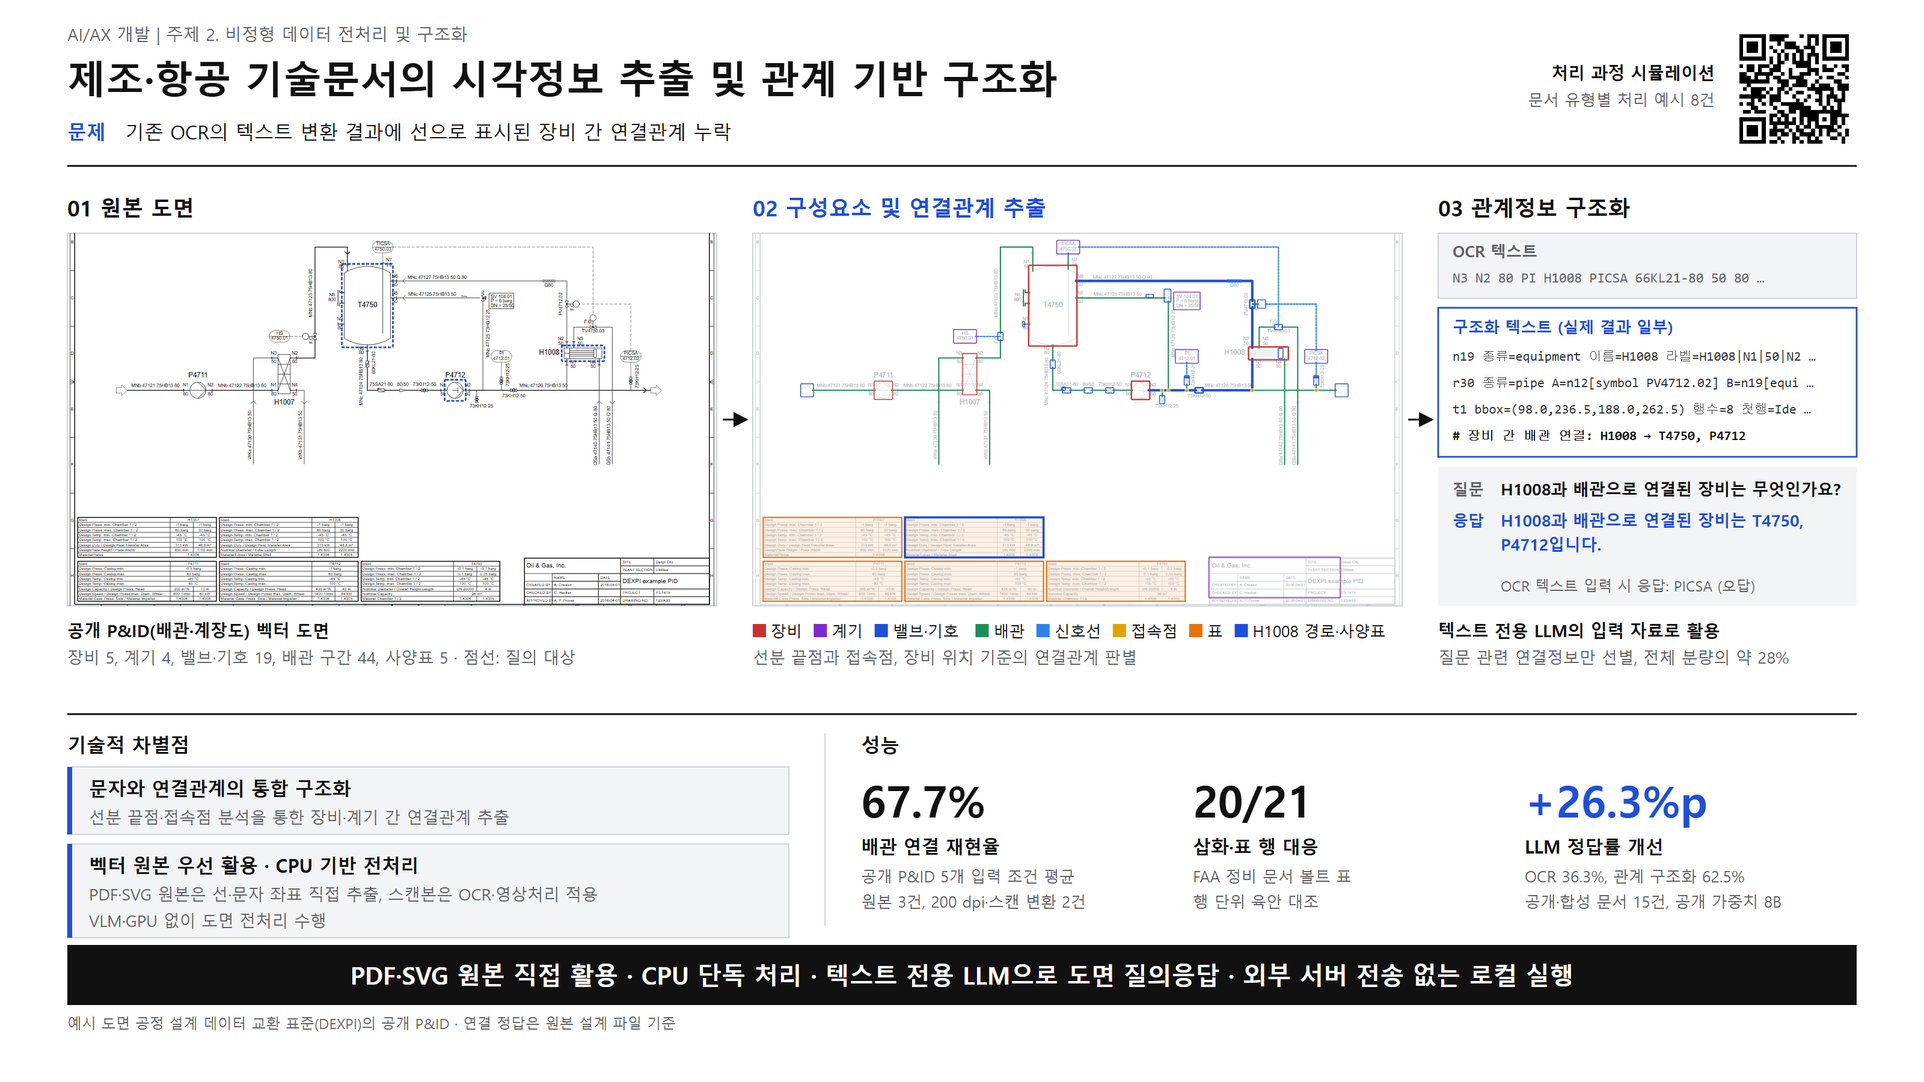
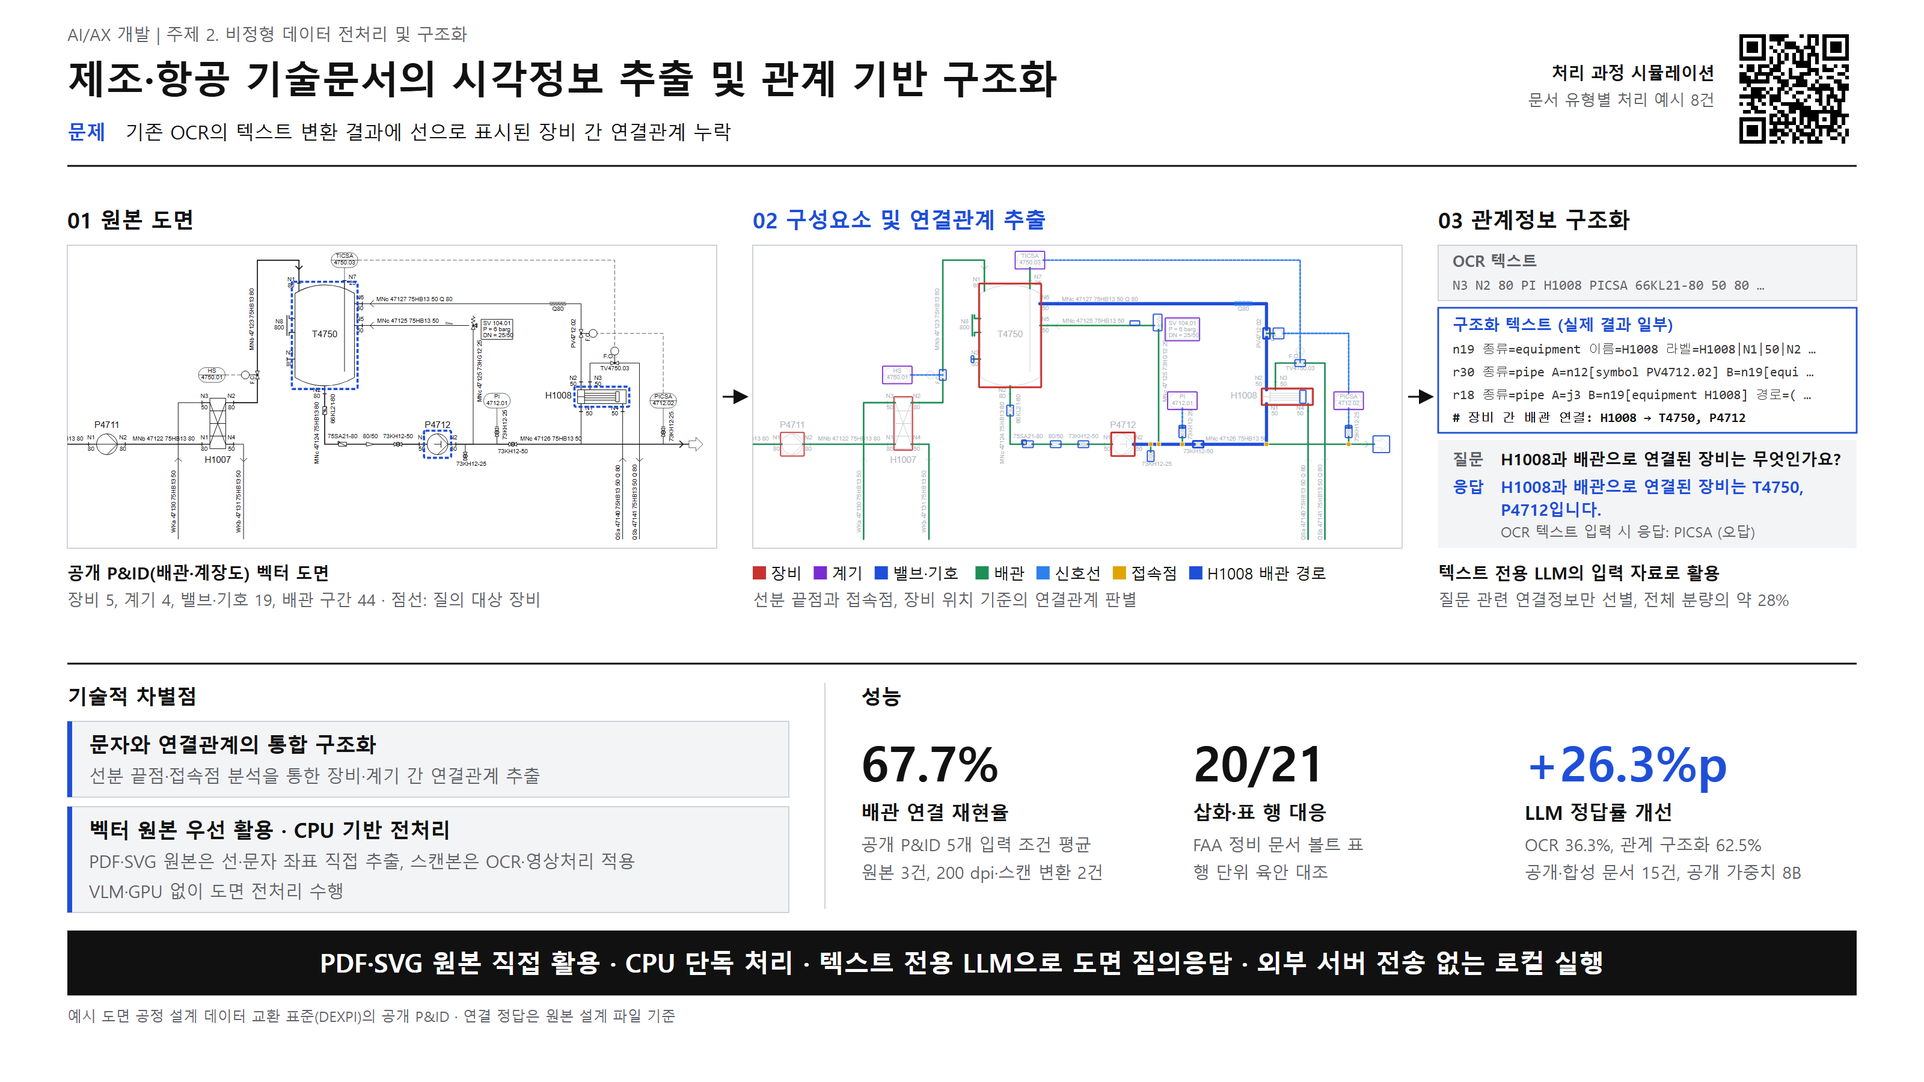
1장 슬라이드: 예시 도면을 공정 영역만 잘라 확대, 칸 여백 축소, 하단 글자 확대

Changed region(s): [[0.0312, 0.1867, 0.9688, 0.9644], [0.0312, 0.1867, 0.125, 0.2178]]

diff --git a/docs/figures/1장-도면-관계-구조화.html b/docs/figures/1장-도면-관계-구조화.html
@@ -9,13 +9,13 @@
 <text x="1426" y="66" font-size="14" font-weight="700" fill="#111111" text-anchor="end">처리 과정 시뮬레이션</text>
 <text x="1426" y="88" font-size="13" font-weight="400" fill="#5F6368" text-anchor="end">문서 유형별 처리 예시 8건</text>
 <line x1="56" y1="138" x2="1544" y2="138" stroke="#111111" stroke-width="1.4"/>
-<text x="56" y="180" font-size="18" font-weight="700" fill="#111111" text-anchor="start">01  원본 도면</text>
-<line x1="601" y1="349.0" x2="621" y2="349.0" stroke="#111111" stroke-width="1.6" marker-end="url(#ah)"/>
-<text x="626" y="180" font-size="18" font-weight="700" fill="#1F4FD8" text-anchor="start">02  구성요소 및 연결관계 추출</text>
-<line x1="1171" y1="349.0" x2="1191" y2="349.0" stroke="#111111" stroke-width="1.6" marker-end="url(#ah)"/>
-<text x="1196" y="180" font-size="18" font-weight="700" fill="#111111" text-anchor="start">03  관계정보 구조화</text>
-<rect x="56" y="194" width="540" height="310" rx="0" stroke="#CFD3D9" fill="#FFFFFF" stroke-width="1"/>
-<svg x="56" y="194" width="540" height="310" viewBox="5.5 52 409 242" preserveAspectRatio="xMidYMid meet"><text x="0" y="1.05" font-size="3" font-family="Arial" fill="#111111" text-anchor="middle" transform="translate(319.5 98) rotate(-90)">PV4712.02</text>
+<text x="56" y="190" font-size="18" font-weight="700" fill="#111111" text-anchor="start">01  원본 도면</text>
+<line x1="601" y1="330.0" x2="621" y2="330.0" stroke="#111111" stroke-width="1.6" marker-end="url(#ah)"/>
+<text x="626" y="190" font-size="18" font-weight="700" fill="#1F4FD8" text-anchor="start">02  구성요소 및 연결관계 추출</text>
+<line x1="1171" y1="330.0" x2="1191" y2="330.0" stroke="#111111" stroke-width="1.6" marker-end="url(#ah)"/>
+<text x="1196" y="190" font-size="18" font-weight="700" fill="#111111" text-anchor="start">03  관계정보 구조화</text>
+<rect x="56" y="204" width="540" height="252" rx="0" stroke="#CFD3D9" fill="#FFFFFF" stroke-width="1"/>
+<svg x="56" y="204" width="540" height="252" viewBox="64 54 328 152" preserveAspectRatio="xMidYMid meet"><text x="0" y="1.05" font-size="3" font-family="Arial" fill="#111111" text-anchor="middle" transform="translate(319.5 98) rotate(-90)">PV4712.02</text>
 <ellipse cx="329.575" cy="98" rx="2.025" ry="2.025" fill="none" stroke="#111111" stroke-width="0.3"/>
 <path d="M 327.55 98 L 323.5 98" fill="none" stroke="#111111" stroke-width="0.3"/>
 <text x="0" y="1.05" font-size="3" font-family="Arial" fill="#111111" text-anchor="middle" transform="translate(327 99.5) rotate(-90)">F.C.</text>
@@ -579,8 +579,8 @@
 <text x="0" y="0" font-size="2.5" font-family="Arial" fill="#111111" text-anchor="start" transform="translate(359.6 266.25) rotate(0)">SITE</text>
 <path d="M 380 268 L 380 263 L 416 263 L 416 268 L 380 268" fill="none" stroke="#111111" stroke-width="0.28"/>
 <text x="0" y="0" font-size="2.5" font-family="Arial" fill="#111111" text-anchor="start" transform="translate(381.2 266.25) rotate(0)">Dexpi City</text><rect x="320.15" y="124.9" width="27.7" height="10.2" rx=".8" fill="none" stroke="#1F4FD8" stroke-width="1.1" stroke-dasharray="2 1"/><rect x="177.4" y="71.9" width="33.2" height="54.2" rx=".8" fill="none" stroke="#1F4FD8" stroke-width="1.1" stroke-dasharray="2 1"/><rect x="244.15" y="147.15" width="13.7" height="13.7" rx=".8" fill="none" stroke="#1F4FD8" stroke-width="1.1" stroke-dasharray="2 1"/></svg>
-<rect x="626" y="194" width="540" height="310" rx="0" stroke="#CFD3D9" fill="#FFFFFF" stroke-width="1"/>
-<svg x="626" y="194" width="540" height="310" viewBox="5.5 52 409 242" preserveAspectRatio="xMidYMid meet"><text x="0" y="1.05" font-size="3" font-family="Arial" fill="#B0B5BD" text-anchor="middle" transform="translate(319.5 98) rotate(-90)">PV4712.02</text>
+<rect x="626" y="204" width="540" height="252" rx="0" stroke="#CFD3D9" fill="#FFFFFF" stroke-width="1"/>
+<svg x="626" y="204" width="540" height="252" viewBox="64 54 328 152" preserveAspectRatio="xMidYMid meet"><text x="0" y="1.05" font-size="3" font-family="Arial" fill="#B0B5BD" text-anchor="middle" transform="translate(319.5 98) rotate(-90)">PV4712.02</text>
 <ellipse cx="329.575" cy="98" rx="2.025" ry="2.025" fill="none" stroke="#C9CDD4" stroke-width="0.3"/>
 <path d="M 327.55 98 L 323.5 98" fill="none" stroke="#C9CDD4" stroke-width="0.3"/>
 <text x="0" y="1.05" font-size="3" font-family="Arial" fill="#B0B5BD" text-anchor="middle" transform="translate(327 99.5) rotate(-90)">F.C.</text>
@@ -1229,69 +1229,67 @@
 <circle cx="265.0" cy="154.0" r="1.2" fill="#E0A400" stroke="#fff" stroke-width=".3"/>
 <circle cx="323.5" cy="154.0" r="1.2" fill="#E0A400" stroke="#fff" stroke-width=".3"/>
 <circle cx="365.0" cy="154.0" r="1.2" fill="#E0A400" stroke="#fff" stroke-width=".3"/></svg>
-<text x="56" y="530" font-size="14" font-weight="700" fill="#111111" text-anchor="start">공개 P&amp;ID(배관·계장도) 벡터 도면</text>
-<text x="56" y="552" font-size="13.5" font-weight="400" fill="#5F6368" text-anchor="start">장비 5, 계기 4, 밸브·기호 19, 배관 구간 44, 사양표 5  ·  점선: 질의 대상</text>
-<rect x="626" y="519" width="11" height="11" fill="#C8322E"/>
-<text x="641" y="530" font-size="13" font-weight="400" fill="#111111" text-anchor="start">장비</text>
-<rect x="676.68" y="519" width="11" height="11" fill="#7A2BD1"/>
-<text x="691.68" y="530" font-size="13" font-weight="400" fill="#111111" text-anchor="start">계기</text>
-<rect x="727.3599999999999" y="519" width="11" height="11" fill="#1F4FD8"/>
-<text x="742.3599999999999" y="530" font-size="13" font-weight="400" fill="#111111" text-anchor="start">밸브·기호</text>
-<rect x="811.2099999999999" y="519" width="11" height="11" fill="#1E8E57"/>
-<text x="826.2099999999999" y="530" font-size="13" font-weight="400" fill="#111111" text-anchor="start">배관</text>
-<rect x="861.8899999999999" y="519" width="11" height="11" fill="#2F80ED"/>
-<text x="876.8899999999999" y="530" font-size="13" font-weight="400" fill="#111111" text-anchor="start">신호선</text>
-<rect x="925.4099999999999" y="519" width="11" height="11" fill="#E0A400"/>
-<text x="940.4099999999999" y="530" font-size="13" font-weight="400" fill="#111111" text-anchor="start">접속점</text>
-<rect x="988.9299999999998" y="519" width="11" height="11" fill="#E8710A"/>
-<text x="1003.9299999999998" y="530" font-size="13" font-weight="400" fill="#111111" text-anchor="start">표</text>
-<rect x="1026.7699999999998" y="519" width="11" height="11" fill="#1F4FD8"/>
-<text x="1041.7699999999998" y="530" font-size="13" font-weight="400" fill="#111111" text-anchor="start">H1008 경로·사양표</text>
-<text x="626" y="552" font-size="13.5" font-weight="400" fill="#5F6368" text-anchor="start">선분 끝점과 접속점, 장비 위치 기준의 연결관계 판별</text>
-<rect x="1196" y="194" width="348" height="54" rx="0" stroke="#CFD3D9" fill="#F3F4F6" stroke-width="1"/>
-<text x="1208" y="214" font-size="13" font-weight="700" fill="#5F6368" text-anchor="start">OCR 텍스트</text>
-<text x="1208" y="235" font-size="11.5" font-weight="400" fill="#5F6368" text-anchor="start" font-family="Consolas, 'Noto Sans KR', monospace">N3 N2 80 PI H1008 PICSA 66KL21-80 50 80 …</text>
-<rect x="1196" y="256" width="348" height="124" rx="0" stroke="#1F4FD8" fill="#FFFFFF" stroke-width="1.4"/>
-<text x="1208" y="277" font-size="13" font-weight="700" fill="#1F4FD8" text-anchor="start">구조화 텍스트 (실제 결과 일부)</text>
-<text x="1208" y="300" font-size="11" font-weight="400" fill="#333333" text-anchor="start" font-family="Consolas, 'Noto Sans KR', monospace">n19 종류=equipment 이름=H1008 라벨=H1008|N1|50|N2 …</text>
-<text x="1208" y="322" font-size="11" font-weight="400" fill="#333333" text-anchor="start" font-family="Consolas, 'Noto Sans KR', monospace">r30 종류=pipe A=n12[symbol PV4712.02] B=n19[equi …</text>
-<text x="1208" y="344" font-size="11" font-weight="400" fill="#333333" text-anchor="start" font-family="Consolas, 'Noto Sans KR', monospace">t1 bbox=(98.0,236.5,188.0,262.5) 행수=8 첫행=Ide …</text>
-<text x="1208" y="366" font-size="11" font-weight="700" fill="#111111" text-anchor="start" font-family="Consolas, 'Noto Sans KR', monospace"># 장비 간 배관 연결: H1008 → T4750, P4712</text>
-<rect x="1196" y="388" width="348" height="116" rx="0" stroke="none" fill="#F3F4F6" stroke-width="1"/>
-<text x="1208" y="412" font-size="13" font-weight="700" fill="#5F6368" text-anchor="start">질문</text>
-<text x="1248" y="412" font-size="13.5" font-weight="700" fill="#111111" text-anchor="start">H1008과 배관으로 연결된 장비는 무엇인가요?</text>
-<text x="1208" y="438" font-size="13" font-weight="700" fill="#1F4FD8" text-anchor="start">응답</text>
-<text x="1248" y="438" font-size="13.5" font-weight="700" fill="#1F4FD8" text-anchor="start">H1008과 배관으로 연결된 장비는 T4750,</text>
-<text x="1248" y="458" font-size="13.5" font-weight="700" fill="#1F4FD8" text-anchor="start">P4712입니다.</text>
-<text x="1248" y="492" font-size="12" font-weight="400" fill="#5F6368" text-anchor="start">OCR 텍스트 입력 시 응답: PICSA (오답)</text>
-<text x="1196" y="530" font-size="14" font-weight="700" fill="#111111" text-anchor="start">텍스트 전용 LLM의 입력 자료로 활용</text>
-<text x="1196" y="552" font-size="13.5" font-weight="400" fill="#5F6368" text-anchor="start">질문 관련 연결정보만 선별, 전체 분량의 약 28%</text>
-<line x1="56" y1="594" x2="1544" y2="594" stroke="#111111" stroke-width="1.4"/>
-<line x1="686" y1="610" x2="686" y2="770" stroke="#CFD3D9" stroke-width="1"/>
-<text x="56" y="626" font-size="16" font-weight="700" fill="#111111" text-anchor="start">기술적 차별점</text>
-<rect x="56" y="638" width="600" height="56" rx="0" stroke="#CFD3D9" fill="#F3F4F6" stroke-width="1"/>
-<rect x="56" y="638" width="4" height="56" fill="#1F4FD8"/>
-<text x="74" y="662" font-size="15.5" font-weight="700" fill="#111111" text-anchor="start">문자와 연결관계의 통합 구조화</text>
-<text x="74" y="685" font-size="13.5" font-weight="400" fill="#5F6368" text-anchor="start">선분 끝점·접속점 분석을 통한 장비·계기 간 연결관계 추출</text>
-<rect x="56" y="702" width="600" height="78" rx="0" stroke="#CFD3D9" fill="#F3F4F6" stroke-width="1"/>
-<rect x="56" y="702" width="4" height="78" fill="#1F4FD8"/>
-<text x="74" y="726" font-size="15.5" font-weight="700" fill="#111111" text-anchor="start">벡터 원본 우선 활용 · CPU 기반 전처리</text>
-<text x="74" y="749" font-size="13.5" font-weight="400" fill="#5F6368" text-anchor="start">PDF·SVG 원본은 선·문자 좌표 직접 추출, 스캔본은 OCR·영상처리 적용</text>
-<text x="74" y="771" font-size="13.5" font-weight="400" fill="#5F6368" text-anchor="start">VLM·GPU 없이 도면 전처리 수행</text>
-<text x="716" y="626" font-size="16" font-weight="700" fill="#111111" text-anchor="start">성능</text>
-<text x="716.0" y="680" font-size="36" font-weight="700" fill="#111111" text-anchor="start">67.7%</text>
-<text x="716.0" y="710" font-size="15" font-weight="700" fill="#111111" text-anchor="start">배관 연결 재현율</text>
-<text x="716.0" y="734" font-size="13" font-weight="400" fill="#5F6368" text-anchor="start">공개 P&amp;ID 5개 입력 조건 평균</text>
-<text x="716.0" y="755" font-size="13" font-weight="400" fill="#5F6368" text-anchor="start">원본 3건, 200 dpi·스캔 변환 2건</text>
-<text x="992.0" y="680" font-size="36" font-weight="700" fill="#111111" text-anchor="start">20/21</text>
-<text x="992.0" y="710" font-size="15" font-weight="700" fill="#111111" text-anchor="start">삽화·표 행 대응</text>
-<text x="992.0" y="734" font-size="13" font-weight="400" fill="#5F6368" text-anchor="start">FAA 정비 문서 볼트 표</text>
-<text x="992.0" y="755" font-size="13" font-weight="400" fill="#5F6368" text-anchor="start">행 단위 육안 대조</text>
-<text x="1268.0" y="680" font-size="36" font-weight="700" fill="#1F4FD8" text-anchor="start">+26.3%p</text>
-<text x="1268.0" y="710" font-size="15" font-weight="700" fill="#111111" text-anchor="start">LLM 정답률 개선</text>
-<text x="1268.0" y="734" font-size="13" font-weight="400" fill="#5F6368" text-anchor="start">OCR 36.3%, 관계 구조화 62.5%</text>
-<text x="1268.0" y="755" font-size="13" font-weight="400" fill="#5F6368" text-anchor="start">공개·합성 문서 15건, 공개 가중치 8B</text>
-<rect x="56" y="786" width="1488" height="50" rx="0" stroke="none" fill="#111111" stroke-width="1"/>
-<text x="800.0" y="819" font-size="20" font-weight="700" fill="#FFFFFF" text-anchor="middle">PDF·SVG 원본 직접 활용   ·   CPU 단독 처리   ·   텍스트 전용 LLM으로 도면 질의응답   ·   외부 서버 전송 없는 로컬 실행</text>
-<text x="56" y="856" font-size="12" font-weight="400" fill="#5F6368" text-anchor="start">예시 도면  공정 설계 데이터 교환 표준(DEXPI)의 공개 P&amp;ID  ·  연결 정답은 원본 설계 파일 기준</text>
+<text x="56" y="482" font-size="14" font-weight="700" fill="#111111" text-anchor="start">공개 P&amp;ID(배관·계장도) 벡터 도면</text>
+<text x="56" y="504" font-size="13.5" font-weight="400" fill="#5F6368" text-anchor="start">장비 5, 계기 4, 밸브·기호 19, 배관 구간 44  ·  점선: 질의 대상 장비</text>
+<rect x="626" y="471" width="11" height="11" fill="#C8322E"/>
+<text x="641" y="482" font-size="13" font-weight="400" fill="#111111" text-anchor="start">장비</text>
+<rect x="676.68" y="471" width="11" height="11" fill="#7A2BD1"/>
+<text x="691.68" y="482" font-size="13" font-weight="400" fill="#111111" text-anchor="start">계기</text>
+<rect x="727.3599999999999" y="471" width="11" height="11" fill="#1F4FD8"/>
+<text x="742.3599999999999" y="482" font-size="13" font-weight="400" fill="#111111" text-anchor="start">밸브·기호</text>
+<rect x="811.2099999999999" y="471" width="11" height="11" fill="#1E8E57"/>
+<text x="826.2099999999999" y="482" font-size="13" font-weight="400" fill="#111111" text-anchor="start">배관</text>
+<rect x="861.8899999999999" y="471" width="11" height="11" fill="#2F80ED"/>
+<text x="876.8899999999999" y="482" font-size="13" font-weight="400" fill="#111111" text-anchor="start">신호선</text>
+<rect x="925.4099999999999" y="471" width="11" height="11" fill="#E0A400"/>
+<text x="940.4099999999999" y="482" font-size="13" font-weight="400" fill="#111111" text-anchor="start">접속점</text>
+<rect x="988.9299999999998" y="471" width="11" height="11" fill="#1F4FD8"/>
+<text x="1003.9299999999998" y="482" font-size="13" font-weight="400" fill="#111111" text-anchor="start">H1008 배관 경로</text>
+<text x="626" y="504" font-size="13.5" font-weight="400" fill="#5F6368" text-anchor="start">선분 끝점과 접속점, 장비 위치 기준의 연결관계 판별</text>
+<rect x="1196" y="204" width="348" height="46" rx="0" stroke="#CFD3D9" fill="#F3F4F6" stroke-width="1"/>
+<text x="1208" y="222" font-size="13" font-weight="700" fill="#5F6368" text-anchor="start">OCR 텍스트</text>
+<text x="1208" y="241" font-size="11.5" font-weight="400" fill="#5F6368" text-anchor="start" font-family="Consolas, 'Noto Sans KR', monospace">N3 N2 80 PI H1008 PICSA 66KL21-80 50 80 …</text>
+<rect x="1196" y="256" width="348" height="104" rx="0" stroke="#1F4FD8" fill="#FFFFFF" stroke-width="1.4"/>
+<text x="1208" y="275" font-size="13" font-weight="700" fill="#1F4FD8" text-anchor="start">구조화 텍스트 (실제 결과 일부)</text>
+<text x="1208" y="294" font-size="11" font-weight="400" fill="#333333" text-anchor="start" font-family="Consolas, 'Noto Sans KR', monospace">n19 종류=equipment 이름=H1008 라벨=H1008|N1|50|N2 …</text>
+<text x="1208" y="313" font-size="11" font-weight="400" fill="#333333" text-anchor="start" font-family="Consolas, 'Noto Sans KR', monospace">r30 종류=pipe A=n12[symbol PV4712.02] B=n19[equi …</text>
+<text x="1208" y="332" font-size="11" font-weight="400" fill="#333333" text-anchor="start" font-family="Consolas, 'Noto Sans KR', monospace">r18 종류=pipe A=j3 B=n19[equipment H1008] 경로=( …</text>
+<text x="1208" y="351" font-size="11" font-weight="700" fill="#111111" text-anchor="start" font-family="Consolas, 'Noto Sans KR', monospace"># 장비 간 배관 연결: H1008 → T4750, P4712</text>
+<rect x="1196" y="366" width="348" height="90" rx="0" stroke="none" fill="#F3F4F6" stroke-width="1"/>
+<text x="1208" y="387" font-size="13" font-weight="700" fill="#5F6368" text-anchor="start">질문</text>
+<text x="1248" y="387" font-size="13.5" font-weight="700" fill="#111111" text-anchor="start">H1008과 배관으로 연결된 장비는 무엇인가요?</text>
+<text x="1208" y="410" font-size="13" font-weight="700" fill="#1F4FD8" text-anchor="start">응답</text>
+<text x="1248" y="410" font-size="13.5" font-weight="700" fill="#1F4FD8" text-anchor="start">H1008과 배관으로 연결된 장비는 T4750,</text>
+<text x="1248" y="429" font-size="13.5" font-weight="700" fill="#1F4FD8" text-anchor="start">P4712입니다.</text>
+<text x="1248" y="447" font-size="12" font-weight="400" fill="#5F6368" text-anchor="start">OCR 텍스트 입력 시 응답: PICSA (오답)</text>
+<text x="1196" y="482" font-size="14" font-weight="700" fill="#111111" text-anchor="start">텍스트 전용 LLM의 입력 자료로 활용</text>
+<text x="1196" y="504" font-size="13.5" font-weight="400" fill="#5F6368" text-anchor="start">질문 관련 연결정보만 선별, 전체 분량의 약 28%</text>
+<line x1="56" y1="552" x2="1544" y2="552" stroke="#111111" stroke-width="1.4"/>
+<line x1="686" y1="568" x2="686" y2="756" stroke="#CFD3D9" stroke-width="1"/>
+<text x="56" y="586" font-size="17" font-weight="700" fill="#111111" text-anchor="start">기술적 차별점</text>
+<rect x="56" y="600" width="600" height="63" rx="0" stroke="#CFD3D9" fill="#F3F4F6" stroke-width="1"/>
+<rect x="56" y="600" width="4" height="63" fill="#1F4FD8"/>
+<text x="74" y="626" font-size="17" font-weight="700" fill="#111111" text-anchor="start">문자와 연결관계의 통합 구조화</text>
+<text x="74" y="651" font-size="14.5" font-weight="400" fill="#5F6368" text-anchor="start">선분 끝점·접속점 분석을 통한 장비·계기 간 연결관계 추출</text>
+<rect x="56" y="671" width="600" height="88" rx="0" stroke="#CFD3D9" fill="#F3F4F6" stroke-width="1"/>
+<rect x="56" y="671" width="4" height="88" fill="#1F4FD8"/>
+<text x="74" y="697" font-size="17" font-weight="700" fill="#111111" text-anchor="start">벡터 원본 우선 활용 · CPU 기반 전처리</text>
+<text x="74" y="722" font-size="14.5" font-weight="400" fill="#5F6368" text-anchor="start">PDF·SVG 원본은 선·문자 좌표 직접 추출, 스캔본은 OCR·영상처리 적용</text>
+<text x="74" y="747" font-size="14.5" font-weight="400" fill="#5F6368" text-anchor="start">VLM·GPU 없이 도면 전처리 수행</text>
+<text x="716" y="586" font-size="17" font-weight="700" fill="#111111" text-anchor="start">성능</text>
+<text x="716.0" y="650" font-size="40" font-weight="700" fill="#111111" text-anchor="start">67.7%</text>
+<text x="716.0" y="682" font-size="16" font-weight="700" fill="#111111" text-anchor="start">배관 연결 재현율</text>
+<text x="716.0" y="708" font-size="14" font-weight="400" fill="#5F6368" text-anchor="start">공개 P&amp;ID 5개 입력 조건 평균</text>
+<text x="716.0" y="731" font-size="14" font-weight="400" fill="#5F6368" text-anchor="start">원본 3건, 200 dpi·스캔 변환 2건</text>
+<text x="992.0" y="650" font-size="40" font-weight="700" fill="#111111" text-anchor="start">20/21</text>
+<text x="992.0" y="682" font-size="16" font-weight="700" fill="#111111" text-anchor="start">삽화·표 행 대응</text>
+<text x="992.0" y="708" font-size="14" font-weight="400" fill="#5F6368" text-anchor="start">FAA 정비 문서 볼트 표</text>
+<text x="992.0" y="731" font-size="14" font-weight="400" fill="#5F6368" text-anchor="start">행 단위 육안 대조</text>
+<text x="1268.0" y="650" font-size="40" font-weight="700" fill="#1F4FD8" text-anchor="start">+26.3%p</text>
+<text x="1268.0" y="682" font-size="16" font-weight="700" fill="#111111" text-anchor="start">LLM 정답률 개선</text>
+<text x="1268.0" y="708" font-size="14" font-weight="400" fill="#5F6368" text-anchor="start">OCR 36.3%, 관계 구조화 62.5%</text>
+<text x="1268.0" y="731" font-size="14" font-weight="400" fill="#5F6368" text-anchor="start">공개·합성 문서 15건, 공개 가중치 8B</text>
+<rect x="56" y="774" width="1488" height="54" rx="0" stroke="none" fill="#111111" stroke-width="1"/>
+<text x="800.0" y="809" font-size="21" font-weight="700" fill="#FFFFFF" text-anchor="middle">PDF·SVG 원본 직접 활용   ·   CPU 단독 처리   ·   텍스트 전용 LLM으로 도면 질의응답   ·   외부 서버 전송 없는 로컬 실행</text>
+<text x="56" y="850" font-size="12" font-weight="400" fill="#5F6368" text-anchor="start">예시 도면  공정 설계 데이터 교환 표준(DEXPI)의 공개 P&amp;ID  ·  연결 정답은 원본 설계 파일 기준</text>
 </svg></body></html>
